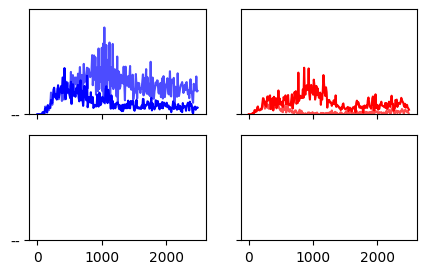
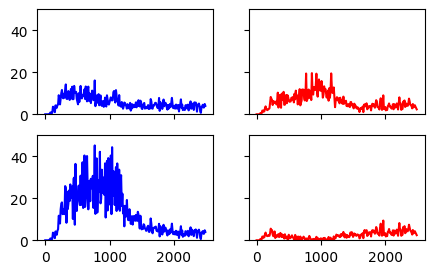
run figure2

diff --git a/NEST/sim_fig_2.py b/NEST/sim_fig_2.py
@@ -10,9 +10,9 @@ fig_n = 'Figure2'
 run_1 = False
 run_2 = False
 
-figure_2a = False
+figure_2a = True
 figure_2b = False
-figure_2c = True
+figure_2c = False
 
 order = 400
 simtime = 3000.0
@@ -20,7 +20,7 @@ start_stim = 200.0
 end_stim = 1200.0
 dt = 0.1
 dt_rec = 10.0
-n_trial=3
+n_trial=100
 
 if not os.path.exists('figures/'+fig_n+'/'):
     os.makedirs('figures/'+fig_n+'/')
@@ -33,7 +33,7 @@ if run_1:
 if figure_2a:
     fig_2a, axes = plt.subplots(2, 2, sharey=True,sharex=True,  figsize=(5,3))
     win_pop ='B_win'
-    mult_coherence = [0.0]#, 0.512]
+    mult_coherence = [0.0, 0.512]
 
     for i, coherence in enumerate(mult_coherence):
         B_N_B_mean_decrease =[]
